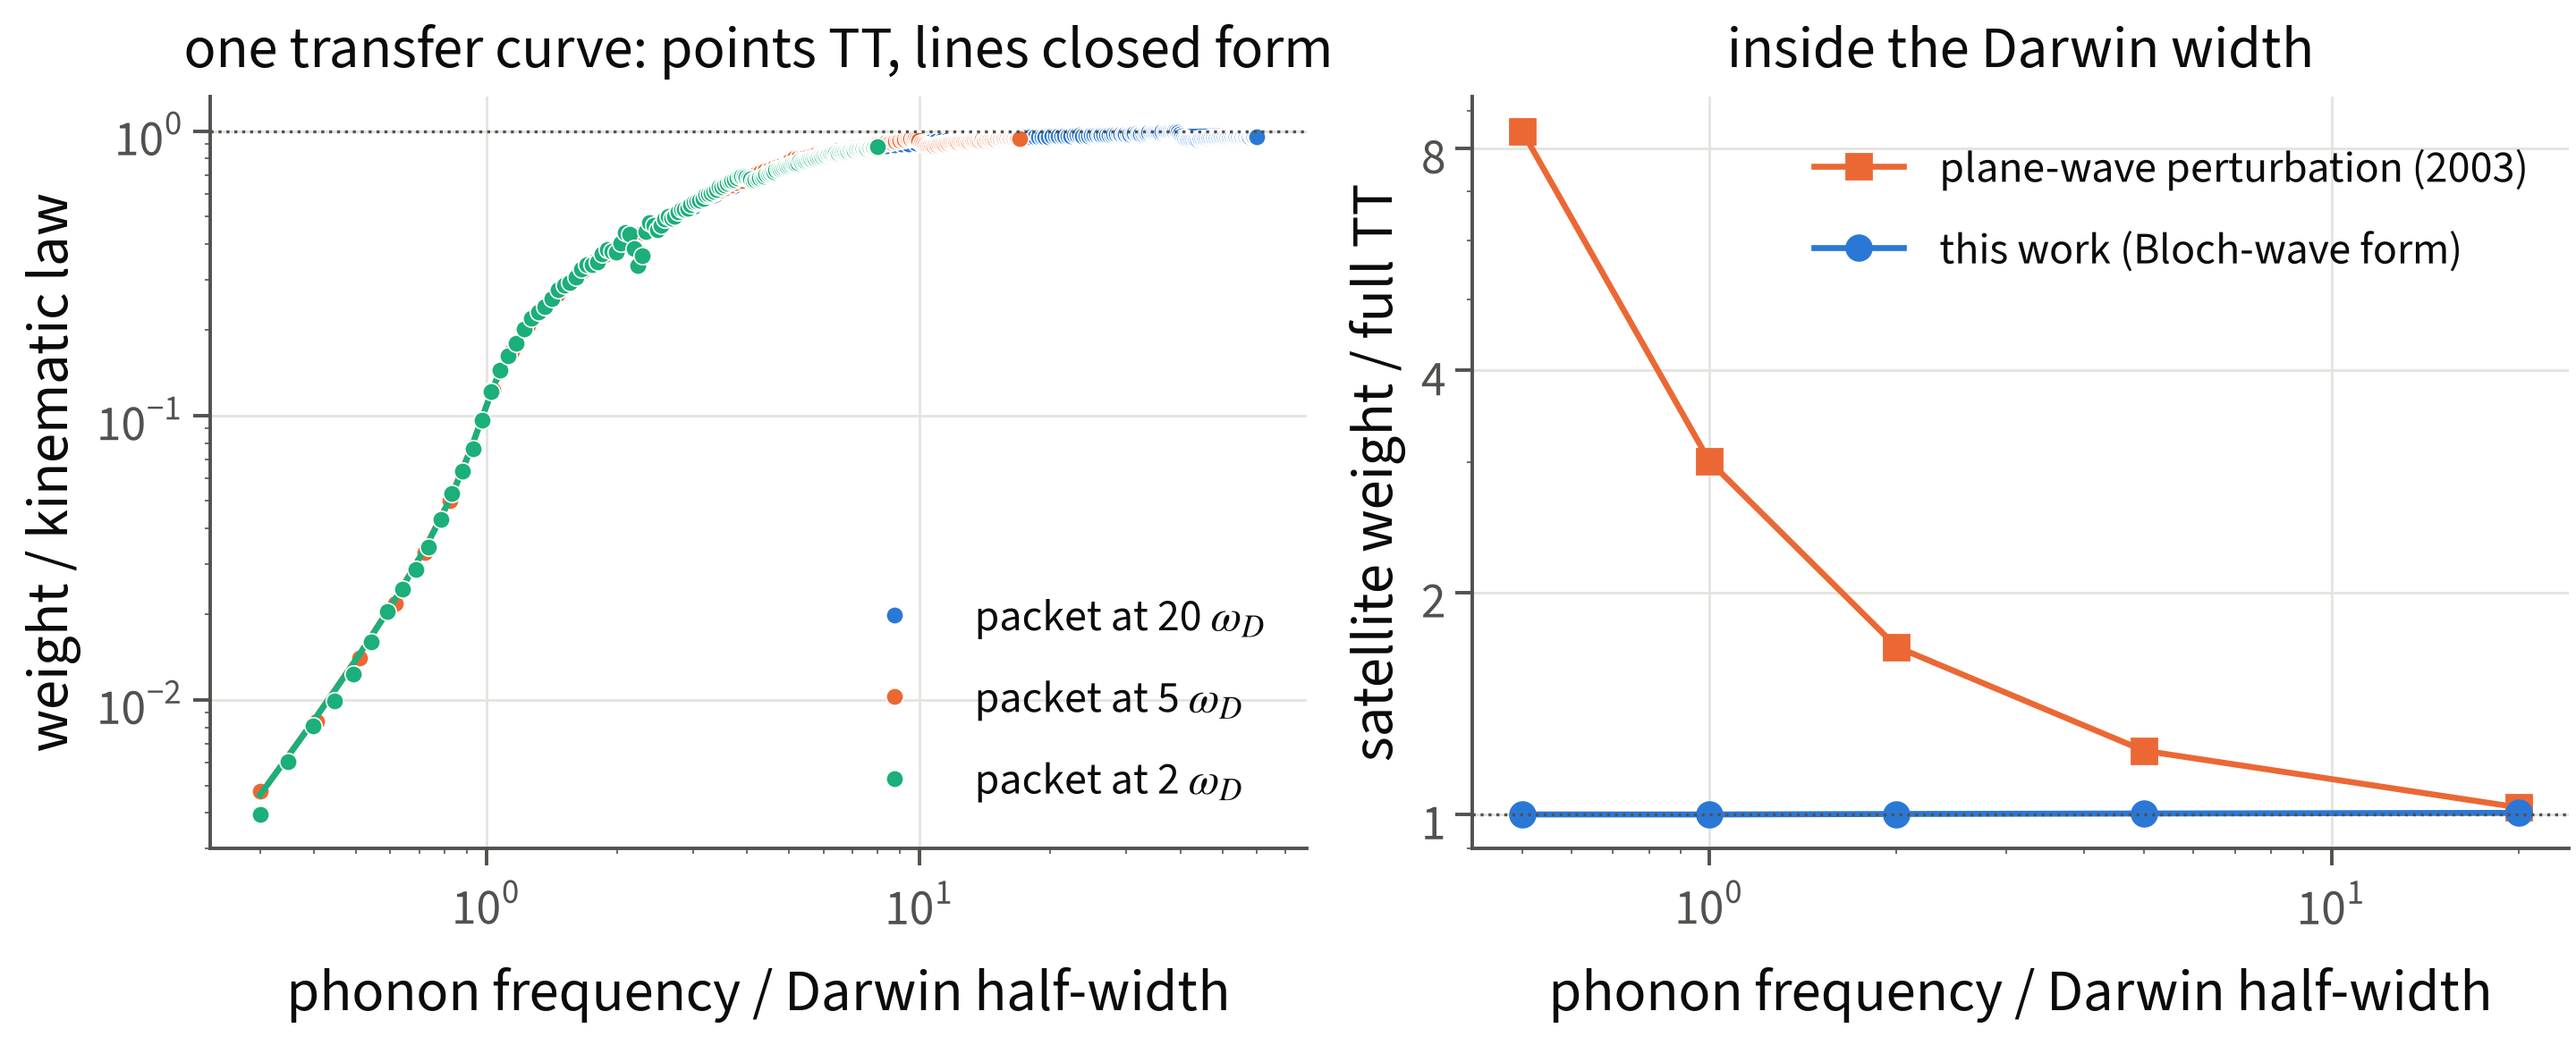
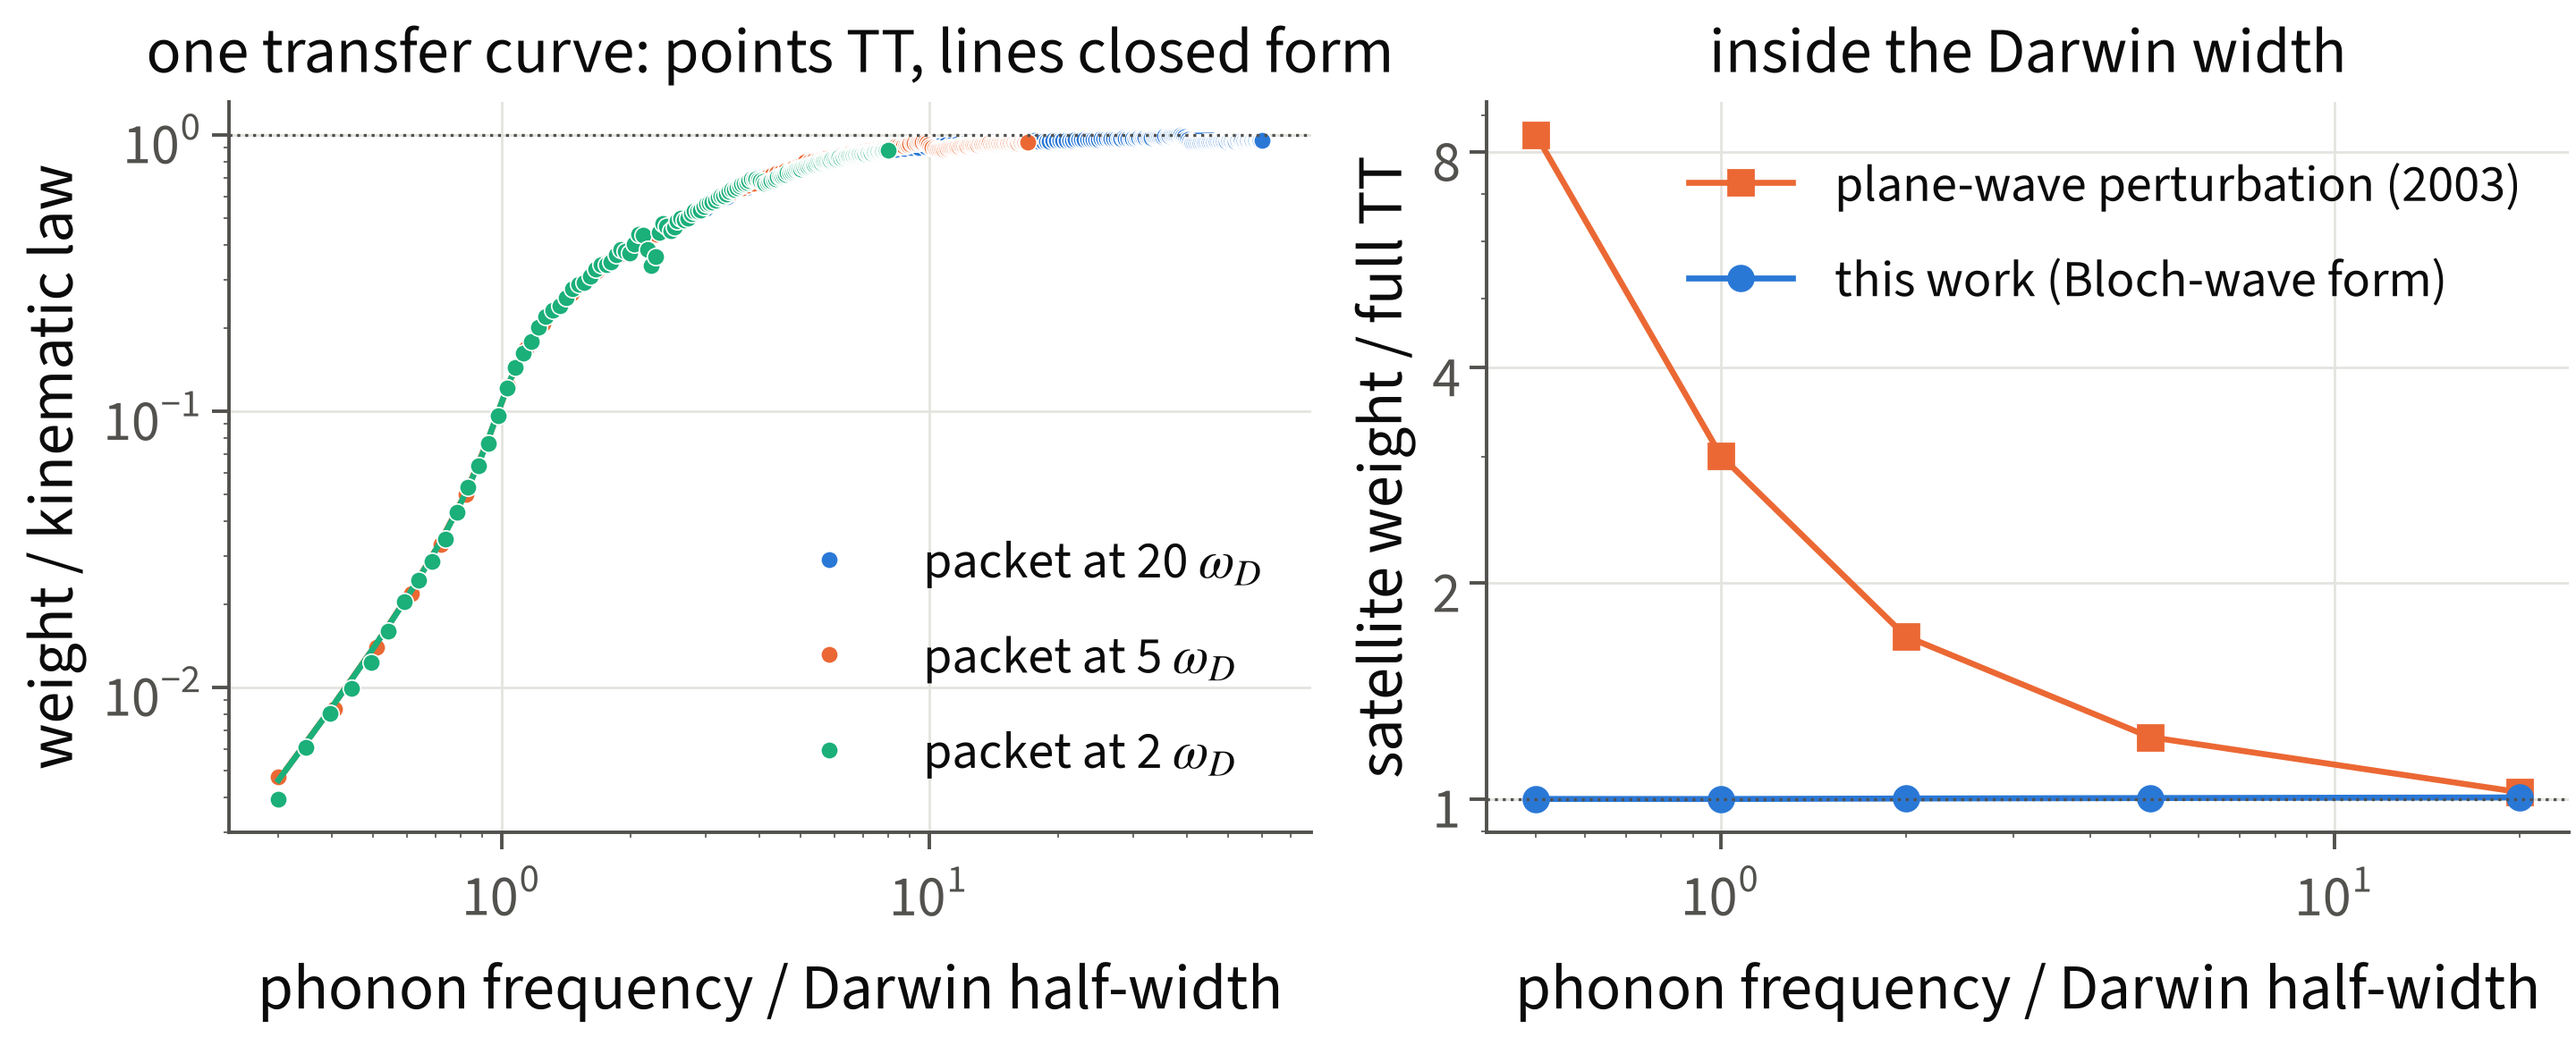
Poster figures: 23/26 pt labels (smallest 21 pt) for reading at a distance

diff --git a/explore/make_poster_figs.py b/explore/make_poster_figs.py
@@ -33,7 +33,7 @@ for _f in sorted((ROOT / "poster" / "fonts").glob("*.ttf")):     # same typeface
 FONT = "Source Sans 3"   # same face as poster/build.py
 
 FIG_W = 14.4          # inches = poster card inner width (~366 mm)
-BIG, SMALL = 24, 20   # printed pt
+BIG, SMALL = 26, 23   # printed pt; smallest label 21 pt (SMALL - 2), readable at ~1.5 m on A0
 INK, INK2, GRID = "#0b0b0b", "#52514e", "#e4e3df"
 BLUE, ORANGE, AQUA, YELLOW = "#2a78d6", "#eb6834", "#1baf7a", "#eda100"
 
@@ -157,9 +157,9 @@ def f1():
     style()
     fig, ax = plt.subplots(1, 2, figsize=(FIG_W, 5.6), constrained_layout=True, sharey=True)
     M.collapse(ax[0], "laue", lambda s: np.sin(np.pi * s) ** 2, r"$\sin^2(\pi\alpha_n\tilde t)$",
-               r"Laue: $\sin^2(\pi\alpha_n\tilde t)$", small=SMALL - 4, ms=9)
+               r"Laue: $\sin^2(\pi\alpha_n\tilde t)$", small=SMALL - 2, ms=9)
     M.collapse(ax[1], "bragg", lambda s: np.tanh(np.pi * s) ** 2, r"$\tanh^2(\pi\alpha_n\tilde t)$",
-               r"Bragg: $\tanh^2(\pi\alpha_n\tilde t)$", small=SMALL - 4, ms=9)
+               r"Bragg: $\tanh^2(\pi\alpha_n\tilde t)$", small=SMALL - 2, ms=9)
     ax[0].get_legend().remove()                      # one legend for both: the cases are the same
     h, lab = ax[1].get_legend_handles_labels()
     ax[1].legend(h, lab[:-1] + ["closed form (line)"], frameon=False, loc="lower right", fontsize=SMALL - 2)
@@ -197,7 +197,7 @@ def f3():
     style()
     fig, ax = plt.subplots(1, 2, figsize=(FIG_W, 6.0), constrained_layout=True)
     M.panel_a(ax[0], small=SMALL - 2, title=r"transient-only: $J_1(S_f)=0$")
-    M.panel_b(ax[1], small=SMALL - 4, title="same strain, up vs down")
+    M.panel_b(ax[1], small=SMALL - 2, title="same strain, up vs down")
     for line in ax[0].lines + ax[1].lines:
         if line.get_marker() not in ("None", None, ""):
             line.set_markersize(8)
@@ -221,7 +221,7 @@ def f4():
     for c, S in zip(hues, Ss):
         m = (P[:, 2] == S) & (P[:, 1] >= 2)
         ax.plot(P[m, 0] / P[m, 1], P[m, 3], "o", ms=8, color=c, mec="white", mew=0.5, ls="none", label=f"S={S:g}")
-    for e, lab in ((0.05, "5 %"), (0.2, "20 %"), (0.5, "50 %")):
+    for e, lab in ((0.05, "5 %"), (0.5, "50 %")):   # 20 % dropped: its label collides with 50 % at print size
         ax.axhline(e, color=INK2, lw=1.4, ls=":")
         ax.text(1.3e-3, e * 1.12, lab, fontsize=SMALL, color=INK2)
     # the boundary the panel is about, so the result is readable without decoding the scatter
